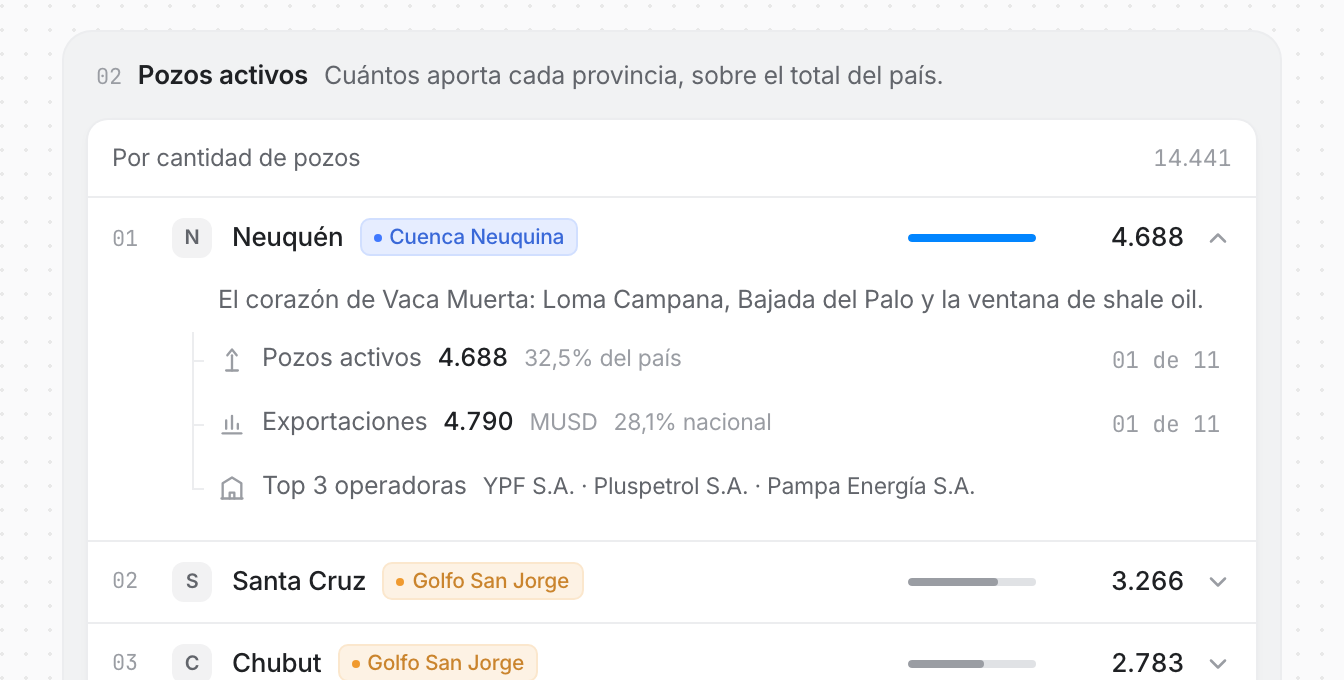
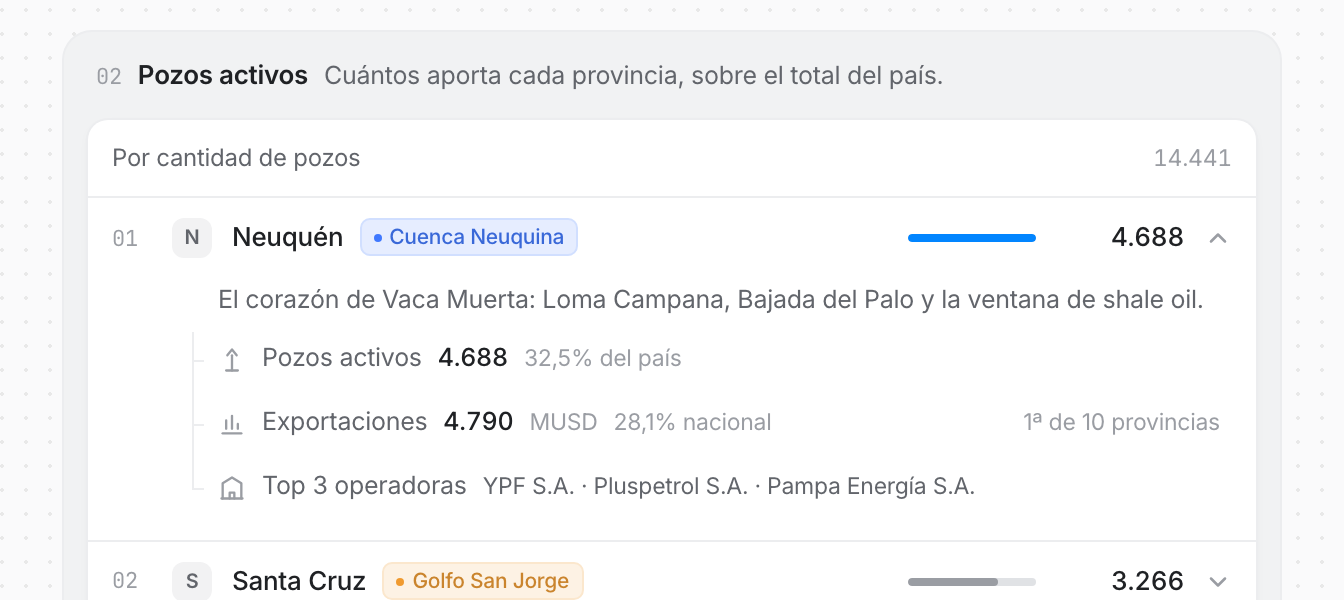
v2(provincias): el puesto dice qué es, y el Estado Nacional deja de contar como provincia
"01 de 11" no se entendía y encima estaba mal.

Sale de la fila de pozos: ese ranking ES el orden de la lista, así que el
puesto ya estaba impreso a la izquierda de la fila. Queda sólo en
exportaciones, que es el orden que no se ve en ningún otro lado de la sección,
y escrito como "4ª de 10 provincias".

El 11 contaba a "Estado Nacional", que son áreas bajo administración nacional
y no una provincia. El mismo error aparecía en tres lugares más: la tarjeta de
resumen decía "Provincias 11", la sección de cuencas contaba seis cuando su
propio texto dice cinco —"Total país" no es una cuenca— y todos los puestos
por debajo suyo estaban corridos: La Pampa figuraba 7ª de 11 y es 6ª de 10.

El fixture ahora lo marca con esProvincia:false y expone SOLO_PROVINCIAS. Los
totales lo siguen sumando, porque son el total del país; los denominadores que
dicen "provincias" o "cuencas", no. Los 8 pozos que quedan fuera del reparto
por cuenca están declarados al pie.

De paso, un bug que salió de esto: al sacar "Total país" de las cuencas, su
tag se quedaba sin color, el color-mix fallaba y salía con borde negro sobre
transparente. Ahora Tag acepta no recibir color y usa una variante neutra, que
además es lo correcto: no es una categoría.

Verificado a 375 y 1440: Neuquén 1ª de 10, La Pampa 6ª, Jujuy 10ª; tarjeta en
10; cinco cuencas; cero desbordes; tsc limpio.

diff --git a/apps/ui-prototype/src/app/v2/provincias/page.tsx b/apps/ui-prototype/src/app/v2/provincias/page.tsx
@@ -1,7 +1,7 @@
 import { Seccion, Card, CardHead, FilaRanking, Dato, Pie, Tag, asignarColores } from '../_ui/kit'
 import { FilaProvincia } from './FilaProvincia'
 import { COMPANIES } from '@/fixtures/companies'
-import { PROVINCES } from '@/fixtures/provinces'
+import { PROVINCES, SOLO_PROVINCIAS } from '@/fixtures/provinces'
 import { formatCompactAR, formatDecimal, formatInteger } from '@/lib/format'
 
 /* PROVINCIAS — pocas filas, así que acá SÍ va la barra en cada una: con ocho
@@ -13,15 +13,26 @@ export default function V2Provincias() {
   const porExpo = PROVINCES.slice().sort((a, b) => b.exportsMUSD - a.exportsMUSD)
   const maxPozos = Math.max(...PROVINCES.map((p) => p.wells))
   const maxExpo = Math.max(...PROVINCES.map((p) => p.exportsMUSD))
+  /* Los totales SÍ incluyen al Estado Nacional: son el total del país. Los
+     denominadores que dicen "provincias" no, ver SOLO_PROVINCIAS. */
   const totalPozos = PROVINCES.reduce((s, p) => s + p.wells, 0)
   const totalExpo = PROVINCES.reduce((s, p) => s + p.exportsMUSD, 0)
-  const cuencas = [...PROVINCES.reduce((m, p) => {
+  /* Ranking de exportaciones sólo entre provincias, que es el que se muestra
+     en el desplegable. Sacar al Estado Nacional corre un puesto para arriba a
+     todo lo que estaba debajo suyo: La Pampa era 7ª de 11 y es 6ª de 10. */
+  const puestoExpoDe = new Map(
+    SOLO_PROVINCIAS.slice()
+      .sort((a, b) => b.exportsMUSD - a.exportsMUSD)
+      .map((p, i) => [p.slug, i + 1]),
+  )
+  const cuencas = [...SOLO_PROVINCIAS.reduce((m, p) => {
     const x = m.get(p.basin) ?? { nombre: p.basin, provincias: 0, pozos: 0 }
     x.provincias++
     x.pozos += p.wells
     return m.set(p.basin, x)
   }, new Map<string, { nombre: string; provincias: number; pozos: number }>()).values()]
     .sort((a, b) => b.pozos - a.pozos)
+  const pozosEnCuencas = cuencas.reduce((s, c) => s + c.pozos, 0)
   /* El color se asigna por posición sobre las cuencas ordenadas por pozos,
      así cada una tiene el suyo y no cambia entre secciones ni pantallas. */
   const colorCuenca = asignarColores(cuencas.map((c) => c.nombre))
@@ -48,7 +59,7 @@ export default function V2Provincias() {
           </Card>
           <Card>
             <div className="px-3 py-3">
-              <Dato rotulo="Provincias" valor={String(PROVINCES.length)} />
+              <Dato rotulo="Provincias" valor={String(SOLO_PROVINCIAS.length)} />
             </div>
           </Card>
         </div>
@@ -68,12 +79,11 @@ export default function V2Provincias() {
               n={i + 1}
               pct={p.wells / maxPozos}
               lider={i === 0}
-              tagColor={colorCuenca.get(p.basin)!}
+              tagColor={colorCuenca.get(p.basin)}
               operadoras={(p.operators ?? []).map((s) => NOMBRES.get(s) ?? s)}
               pctPozos={(p.wells / totalPozos) * 100}
-              puestoPozos={i + 1}
-              puestoExpo={porExpo.findIndex((x) => x.slug === p.slug) + 1}
-              total={PROVINCES.length}
+              puestoExpo={puestoExpoDe.get(p.slug)}
+              totalProvincias={SOLO_PROVINCIAS.length}
             />
           ))}
         </Card>
@@ -82,7 +92,9 @@ export default function V2Provincias() {
           una provincia son cuatro datos, y perder el contexto de la lista para verlos
           cuesta más de lo que aporta. Las operadoras que se listan son las tres primeras por
           producción, no todas las que operan: el dato completo por provincia todavía no
-          lo tenemos.
+          lo tenemos. «Estado Nacional» son áreas bajo administración nacional y no una
+          provincia: suma a los totales del país, pero no cuenta como provincia ni tiene
+          puesto en el ranking.
         </Pie>
       </Seccion>
 
@@ -133,6 +145,8 @@ export default function V2Provincias() {
           ))}
         </Card>
         <Pie>
+          Suman {formatInteger(pozosEnCuencas)} pozos y no {formatInteger(totalPozos)}: los{' '}
+          {totalPozos - pozosEnCuencas} del Estado Nacional no están asignados a una cuenca.
           El color de cada cuenca es el mismo en toda la web: es categórico, no dice si algo
           está bien o mal. Los colores que sí significan —verde, naranja y rojo— quedan
           reservados para eso.

diff --git a/apps/ui-prototype/src/app/v2/provincias/FilaProvincia.tsx b/apps/ui-prototype/src/app/v2/provincias/FilaProvincia.tsx
@@ -33,24 +33,24 @@ export function FilaProvincia({
   tagColor,
   operadoras,
   pctPozos,
-  puestoPozos,
   puestoExpo,
-  total,
+  totalProvincias,
 }: {
   p: Province
   n: number
   /** 0..1 sobre el máximo de la lista */
   pct: number
   lider: boolean
-  tagColor: string
+  /** sin valor cuando la cuenca no es una cuenca; el tag va neutro */
+  tagColor?: string
   /** nombres ya resueltos: una función no cruza de server a client component */
   operadoras: string[]
   /** porcentaje de los pozos del país que aporta la provincia */
   pctPozos: number
-  /** puesto en cada ranking, y cuántas provincias hay */
-  puestoPozos: number
-  puestoExpo: number
-  total: number
+  /** puesto en el ranking de exportaciones. Sin valor en el Estado Nacional,
+      que aparece en la lista pero no es una provincia y no tiene puesto. */
+  puestoExpo?: number
+  totalProvincias: number
 }) {
   const [abierta, setAbierta] = useState(false)
   const id = useId()
@@ -136,20 +136,27 @@ export function FilaProvincia({
                 contenedor: si no, el codo se engancharía al contenedor y
                 habría un solo codo para los tres. */}
             <div className="s-rama flex flex-col gap-1">
+              {/* Sin puesto: el ranking de pozos es el orden de esta misma
+                  lista, así que el puesto ya está impreso a la izquierda de la
+                  fila. Repetirlo abajo era decir dos veces lo mismo. */}
               <Paso
                 icono="pozo"
                 rotulo="Pozos activos"
                 valor={formatInteger(p.wells)}
                 nota={`${formatDecimal(pctPozos, 1)}% del país`}
-                detalle={`${String(puestoPozos).padStart(2, '0')} de ${total}`}
               />
+              {/* Acá sí: el orden por exportaciones NO es el de esta lista y no
+                  se ve en ningún otro lado de la sección. Escrito como puesto
+                  ordinal y no como "04 de 10", que no decía qué era. */}
               <Paso
                 icono="expo"
                 rotulo="Exportaciones"
                 valor={formatInteger(p.exportsMUSD)}
                 unidad="MUSD"
                 nota={`${formatDecimal(p.expSharePct, 1)}% nacional`}
-                detalle={`${String(puestoExpo).padStart(2, '0')} de ${total}`}
+                detalle={
+                  puestoExpo ? `${puestoExpo}ª de ${totalProvincias} provincias` : undefined
+                }
               />
 
               {/* "Top 3" y no "Operan": el fixture marca estas operadoras como
@@ -275,7 +282,8 @@ function Paso({
         {nota}
       </span>
       {detalle && (
-        <span className="s-mono shrink-0 text-[11.5px]" style={{ color: 'var(--ink-3)' }}>
+        // sin s-mono: ahora es una frase, no una cifra alineada en columna
+        <span className="shrink-0 text-[11.5px]" style={{ color: 'var(--ink-3)' }}>
           {detalle}
         </span>
       )}

diff --git a/apps/ui-prototype/src/fixtures/provinces.ts b/apps/ui-prototype/src/fixtures/provinces.ts
@@ -11,6 +11,8 @@ export type Province = {
   /** operadoras destacadas (ilustrativo, para la ficha) */
   operators?: string[]
   blurb: string
+  /** false sólo en "Estado Nacional", que no es una provincia. Ver abajo. */
+  esProvincia?: boolean
 }
 
 export const PROVINCES: Province[] = [
@@ -73,6 +75,7 @@ export const PROVINCES: Province[] = [
     exportsMUSD: 162,
     expSharePct: 1.0,
     blurb: 'Áreas bajo administración del Estado Nacional.',
+    esProvincia: false,
   },
   {
     slug: 'la-pampa',
@@ -120,3 +123,13 @@ export const PROVINCES: Province[] = [
     blurb: 'Actividad menor de hidrocarburos en el ramal noroeste.',
   },
 ]
+
+/* "Estado Nacional" está en PROVINCES porque sus 8 pozos y sus 162 MUSD suman
+   al total del país y tienen que aparecer en los totales y en las listas. Pero
+   no es una provincia, y su "cuenca" —"Total país"— no es una cuenca.
+
+   Contarlo como una llevaba a decir tres cosas falsas al mismo tiempo: "11
+   provincias" en la tarjeta de resumen, "de 11" en el puesto de cada fila y
+   seis cuencas en una sección cuyo texto dice cinco. Todo denominador que
+   hable de provincias o de cuencas se calcula sobre esta lista. */
+export const SOLO_PROVINCIAS = PROVINCES.filter((p) => p.esProvincia !== false)

diff --git a/apps/ui-prototype/src/app/v2/_ui/kit.tsx b/apps/ui-prototype/src/app/v2/_ui/kit.tsx
@@ -430,9 +430,16 @@ export function colorCategoria(cat: string): string {
   return COLOR_CATEGORIA.get(cat) ?? PALETA_TAGS[0]
 }
 
-export function Tag({ children, color }: { children: string; color: string }) {
+/* Sin color, el tag va neutro. Pasa en la fila del Estado Nacional, cuya
+   "cuenca" es «Total país» y no es una cuenca: no tiene color categórico
+   asignado porque no es una categoría. Antes recibía undefined, el color-mix
+   fallaba y el tag salía con borde negro sobre transparente. */
+export function Tag({ children, color }: { children: string; color?: string }) {
   return (
-    <span className="s-tag" style={{ ['--tag-color' as string]: color }}>
+    <span
+      className={color ? 's-tag' : 's-tag s-tag--neutro'}
+      style={color ? { ['--tag-color' as string]: color } : undefined}
+    >
       <i aria-hidden />
       {/* El texto va en su propio span porque .s-tag es un contenedor flex y
           ahí text-overflow no aplica: el nodo de texto suelto se vuelve un

diff --git a/apps/ui-prototype/src/app/v2/sistema.css b/apps/ui-prototype/src/app/v2/sistema.css
@@ -437,6 +437,14 @@
   color: color-mix(in srgb, var(--tag-color) 82%, var(--ink));
   background: color-mix(in srgb, var(--tag-color) 13%, var(--surface));
 }
+/* Variante sin categoría: gris de campo, sin punto de color. La usa lo que
+   está en la lista pero no pertenece a ninguna categoría. */
+.s-tag--neutro {
+  border-color: var(--line);
+  color: var(--ink-2);
+  background: var(--field);
+}
+.s-tag--neutro > i { display: none; }
 .s-tag > i {
   flex: 0 0 4px;
   width: 4px;
